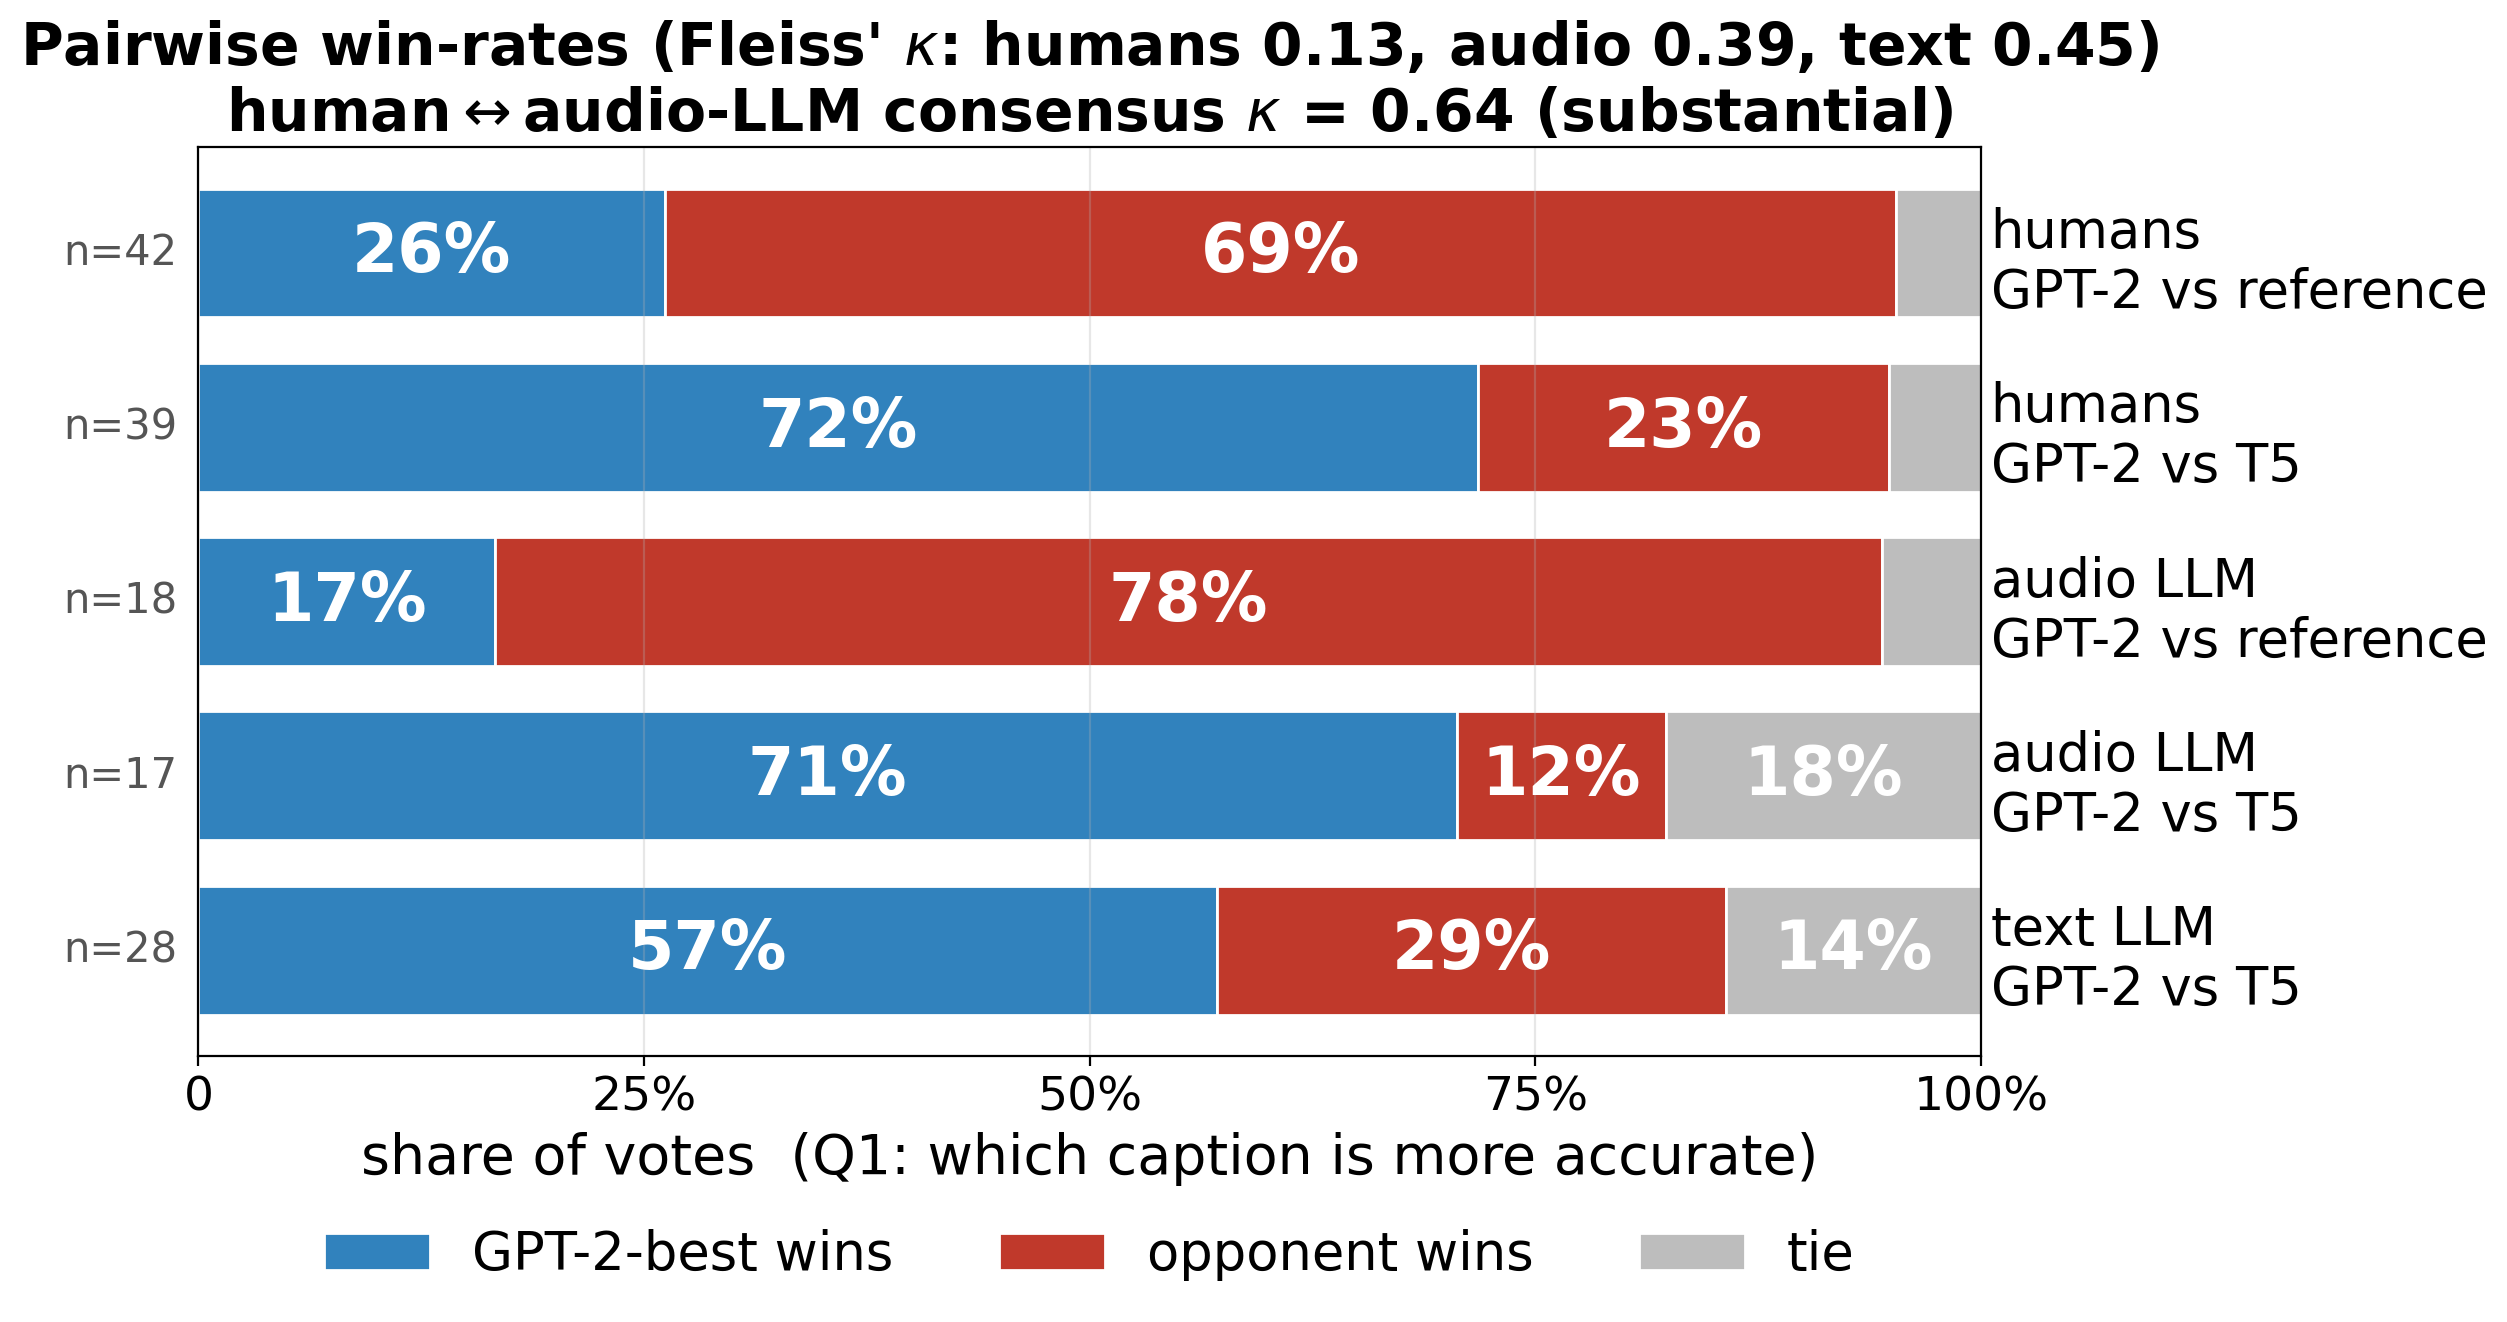
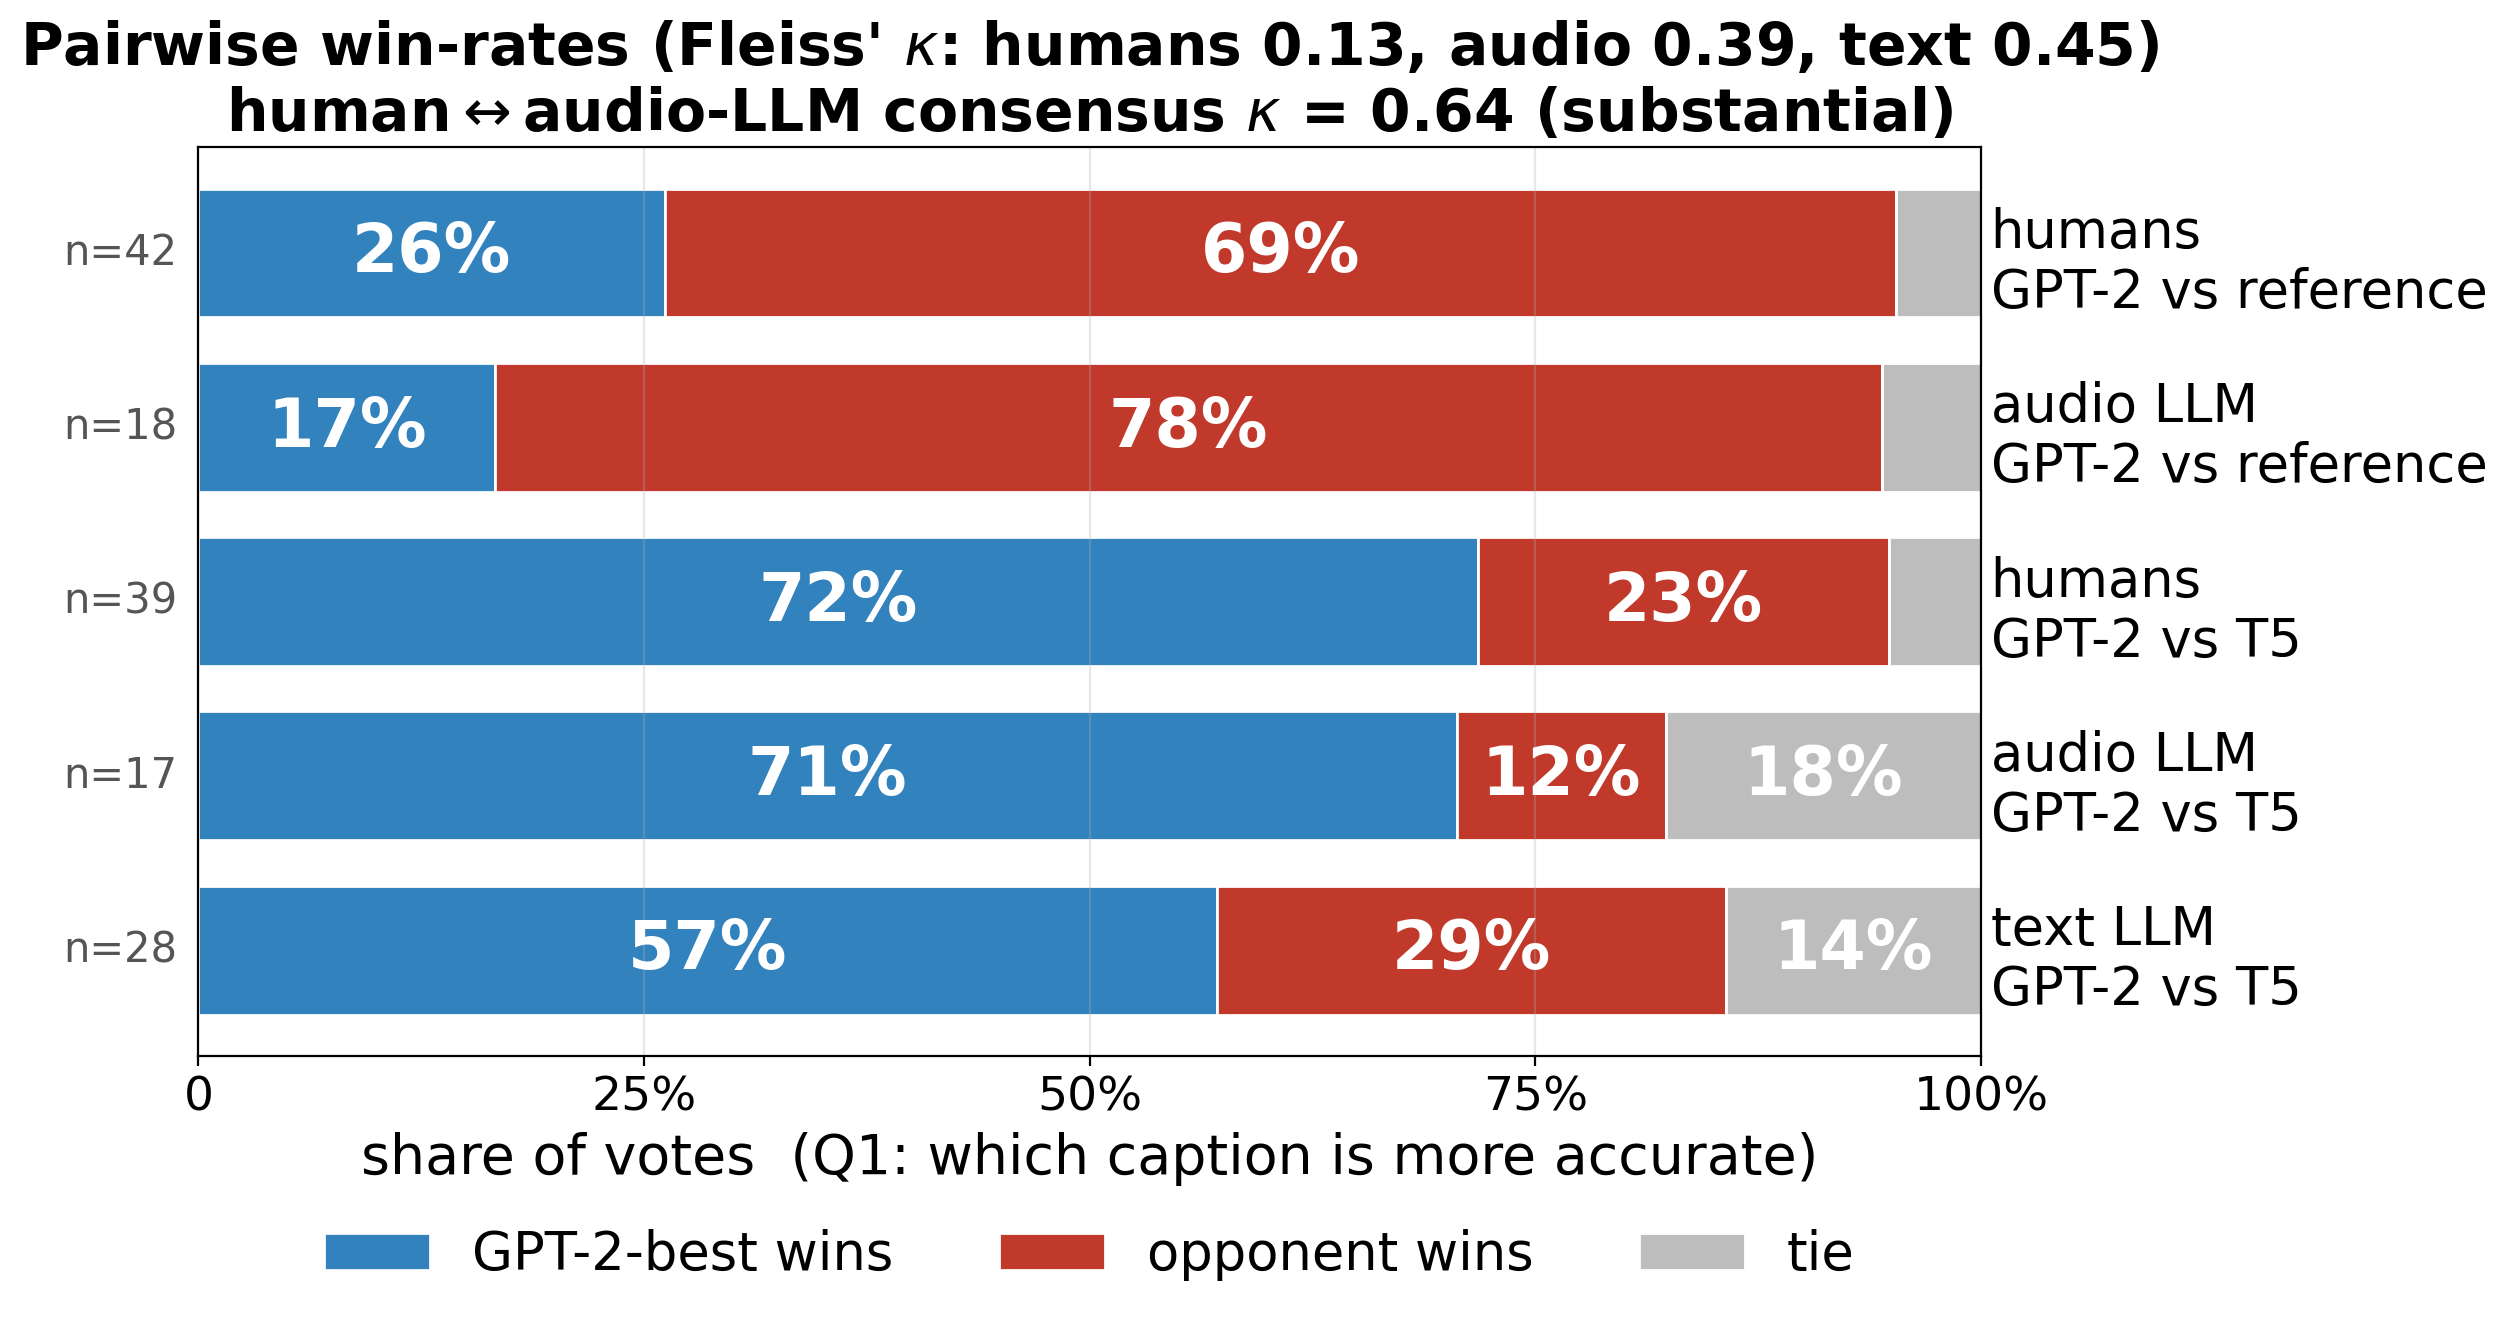
refactor: group win-rate bars by comparison for easier presenting
Order bars as vs-reference (humans, audio LLM) then vs-T5 (humans, audio LLM,
text LLM) so each block reads one way -- reference wins on top, GPT-2 beats T5
below -- making it point-and-compare during the poster talk.

diff --git a/scripts/reporting/eval_panel.py b/scripts/reporting/eval_panel.py
@@ -51,10 +51,12 @@ C_GPT2, C_OPP, C_TIE = "#3182BD", "#C0392B", "#BDBDBD"
 # stacked bar. human = the listener panel (heard the clip); audio = judges that
 # heard the clip; text = judges given the human reference (caption-vs-caption only
 # -> gpt2_t5 alone). Humans come first so the LLM bars read as corroboration.
+# Grouped by COMPARISON (not by pool) so a presenter can point down each block:
+# "vs reference" -> humans then audio LLM agree; "vs T5" -> humans, audio, text agree.
 BARS = [
     ("ref_best", "human", "humans", "human reference"),
-    ("gpt2_t5", "human", "humans", "T5-best"),
     ("ref_best", "audio", "audio judges", "human reference"),
+    ("gpt2_t5", "human", "humans", "T5-best"),
     ("gpt2_t5", "audio", "audio judges", "T5-best"),
     ("gpt2_t5", "text", "text judges", "T5-best"),
 ]
